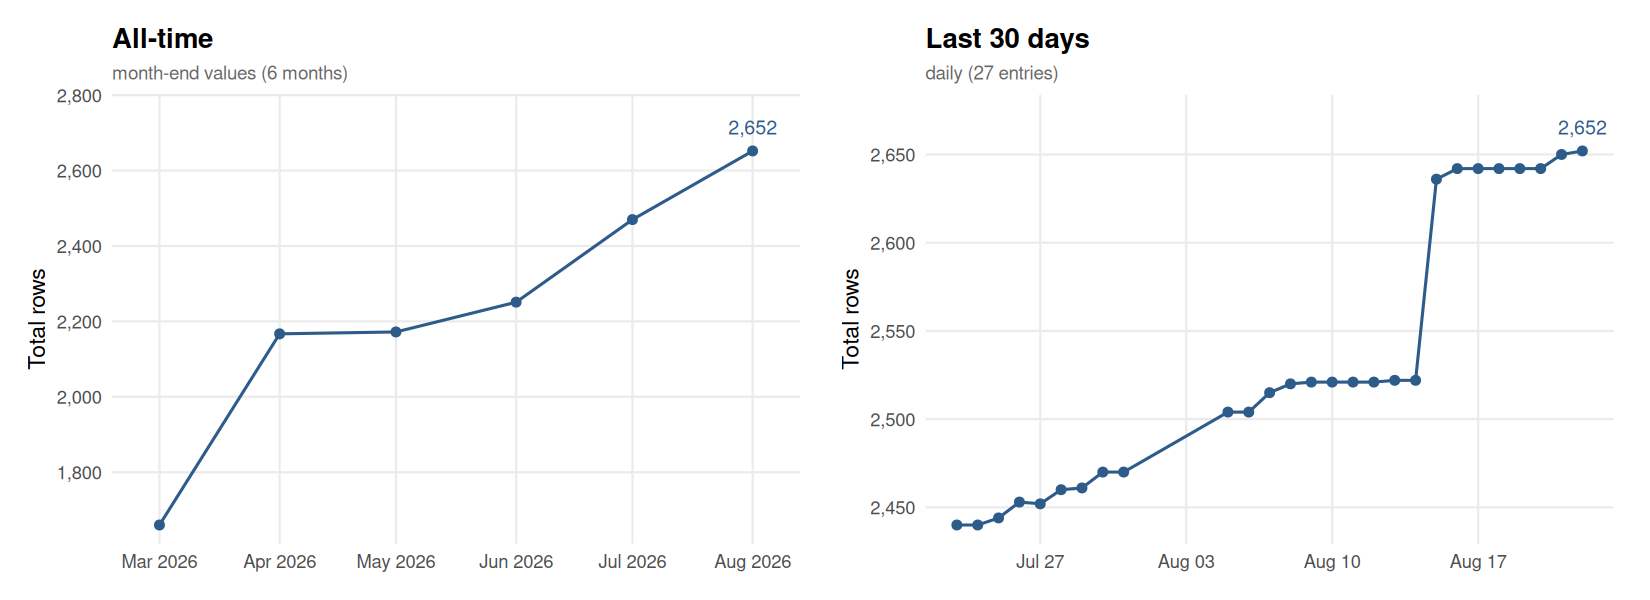
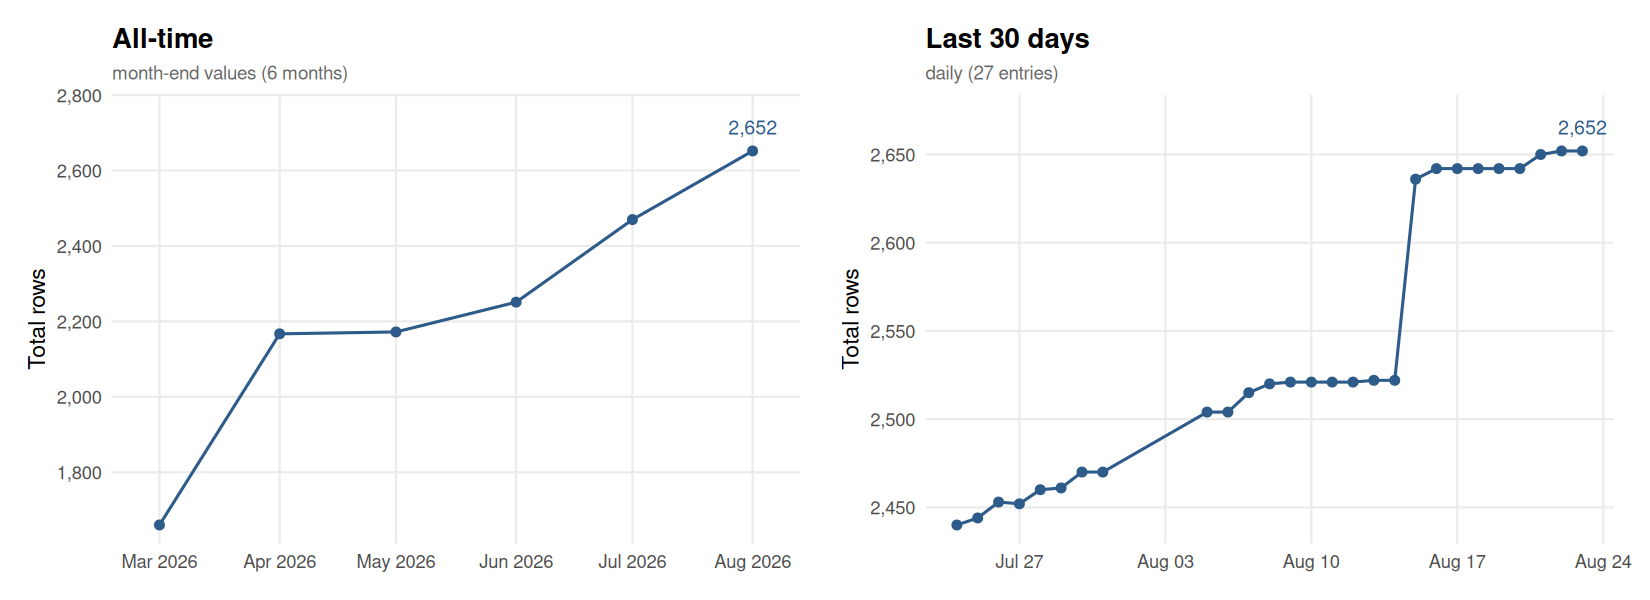
Update flora.csv [automated]

diff --git a/README.md b/README.md
@@ -438,14 +438,15 @@ For API issues:
 This chart is automatically updated after each pipeline run, showing the size of `output/flora.csv` over time.
 
 <!-- FLORA_UPDATE_LOG_START -->
-> **Latest (2026-08-22):** Total = 2,652 | Replications = 2,521 | Reproductions = 131
+> **Latest (2026-08-23):** Total = 2,652 | Replications = 2,521 | Reproductions = 131
 
 ![FLoRA dataset size over time](output/flora_history.png)
 
-<details><summary>Full history (152 entries)</summary>
+<details><summary>Full history (153 entries)</summary>
 
 | Date | Total | Replications | Reproductions |
 |------|------:|-------------:|--------------:|
+| 2026-08-23 | 2652 | 2521 | 131 |
 | 2026-08-22 | 2652 | 2521 | 131 |
 | 2026-08-21 | 2650 | 2519 | 131 |
 | 2026-08-20 | 2642 | 2512 | 130 |
